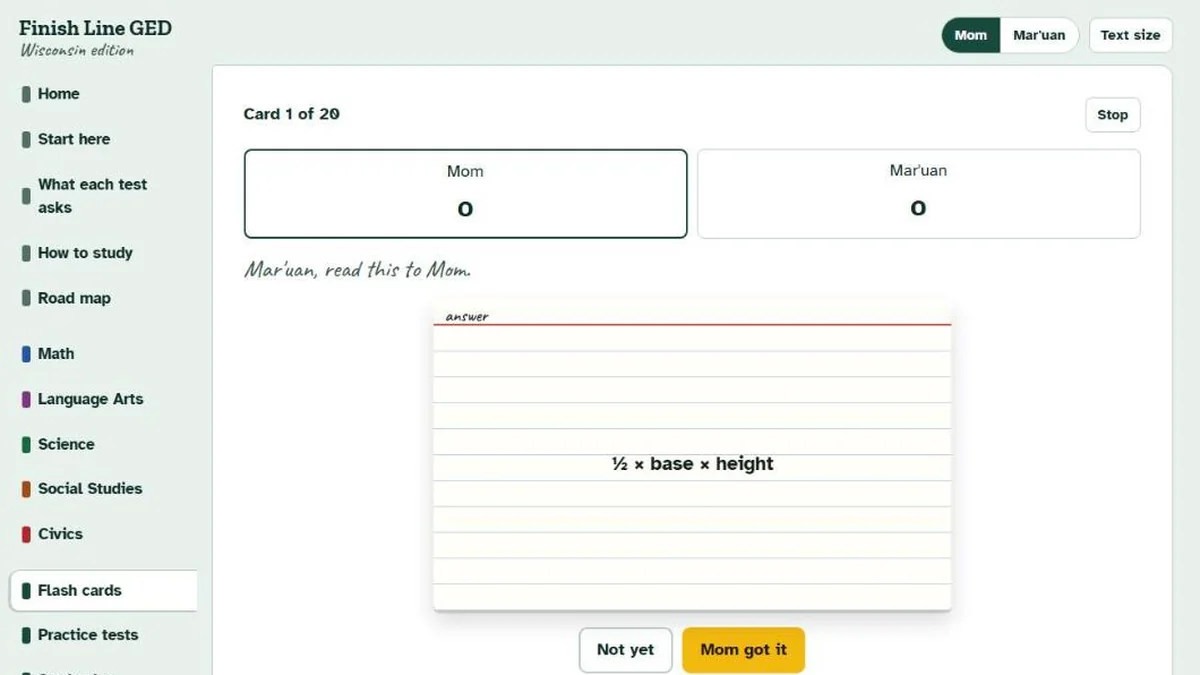
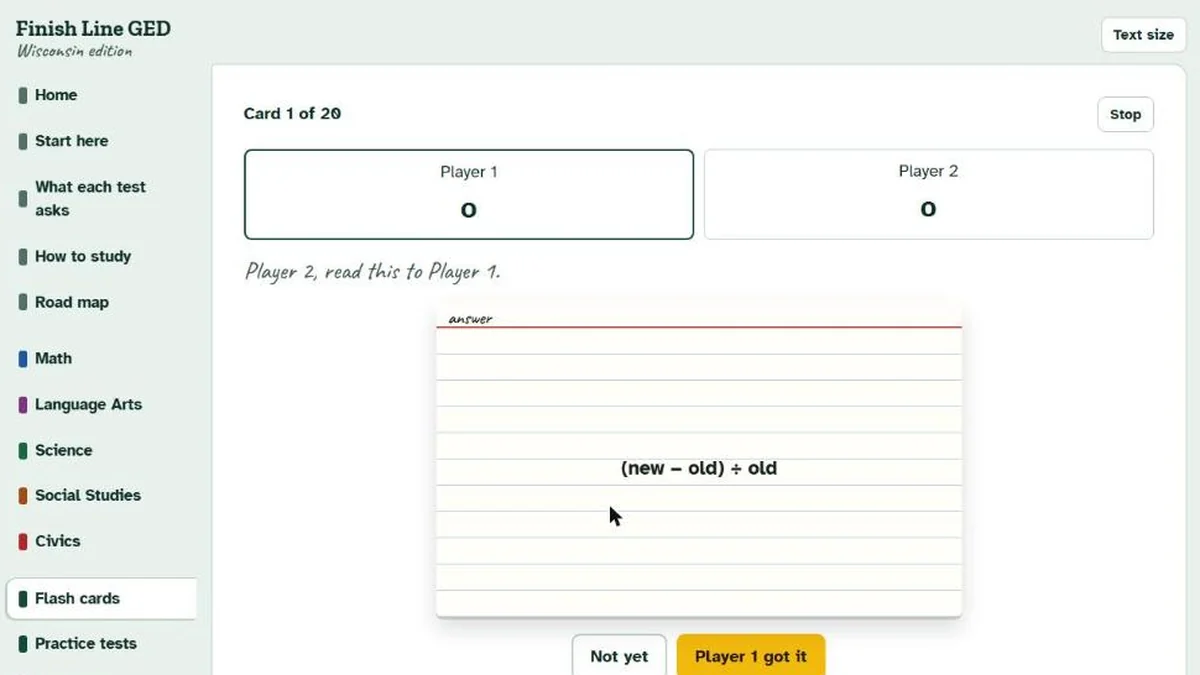
Update the Finish Line GED card for the general site
Claude-Session: https://claude.ai/code/session_013wDBcUUtrNRGxXLySWJuTe

diff --git a/index.html b/index.html
@@ -193,7 +193,7 @@
             </div>
             <div class="site-body">
               <h3>finish line ged</h3>
-              <p>A free Wisconsin GED study site I built for my mom: lessons from the basics up, timed practice tests, the civics test, and flash cards two people can play together.</p>
+              <p>A free Wisconsin GED study site: lessons from the basics up, timed practice tests, the civics test, and flash cards two people can play together.</p>
               <p class="site-tech">HTML, CSS, JavaScript, Vercel</p>
               <a class="text-link" href="https://finish-line-ged.vercel.app" target="_blank" rel="noopener">Visit the site</a>
             </div>
